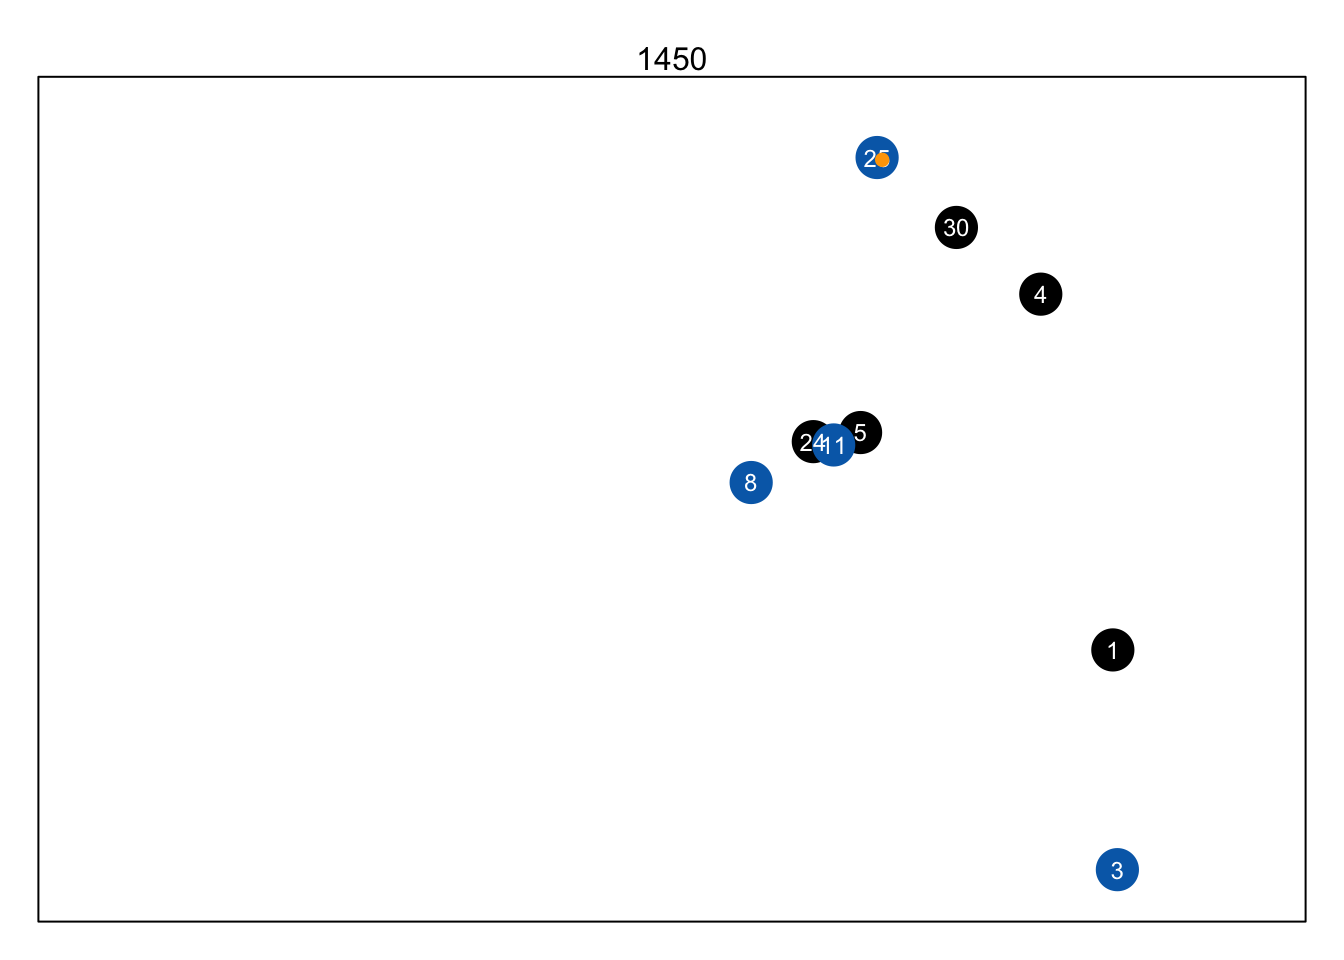
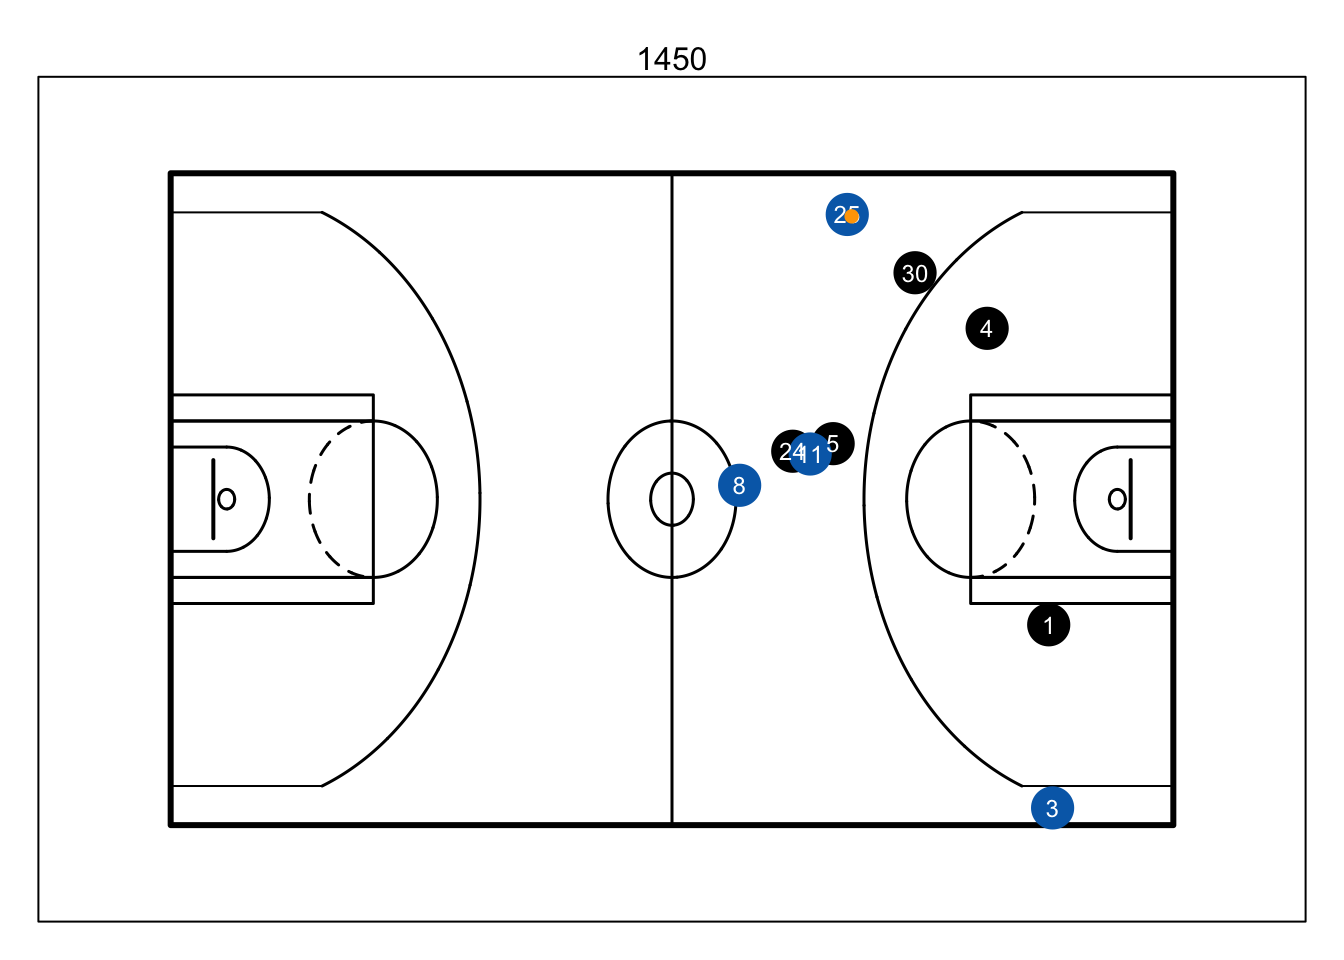
Actually fix image in lecture23

diff --git a/docs/lectures/lecture08.html b/docs/lectures/lecture08.html
@@ -566,7 +566,7 @@ window.Quarto = {
 <span id="cb2-4"><a href="#cb2-4" aria-hidden="true" tabindex="-1"></a>     <span class="at">pch =</span> <span class="dv">16</span>, <span class="at">cex =</span> <span class="fl">0.2</span>, </span>
 <span id="cb2-5"><a href="#cb2-5" aria-hidden="true" tabindex="-1"></a>     <span class="at">col =</span> <span class="fu">adjustcolor</span>(oi_colors[<span class="dv">1</span>], <span class="at">alpha.f =</span> <span class="fl">0.1</span>))</span></code></pre></div><button title="Copy to Clipboard" class="code-copy-button"><i class="bi"></i></button></div>
 <div class="cell-output-display">
-<div id="fig-hc-coordinates" class="quarto-float quarto-figure quarto-figure-center anchored" alt="Scatterplot of batted ball hit coordinates" data-fig-align="center">
+<div id="fig-hc-coordinates" class="quarto-float quarto-figure quarto-figure-center anchored" data-fig-align="center" alt="Scatterplot of batted ball hit coordinates">
 <figure class="quarto-float quarto-float-fig figure">
 <div aria-describedby="fig-hc-coordinates-caption-0ceaefa1-69ba-4598-a22c-09a6ac19f8ca">
 <a href="lecture08_files/figure-html/fig-hc-coordinates-1.png" class="lightbox" data-gallery="quarto-lightbox-gallery-1" title="Figure&nbsp;1: Locations where all batted balls are first fielded"><img src="lecture08_files/figure-html/fig-hc-coordinates-1.png" class="img-fluid quarto-figure quarto-figure-center figure-img" alt="Scatterplot of batted ball hit coordinates" width="576"></a>
@@ -651,7 +651,7 @@ x &amp;= 2.5 \times (\texttt{hit\_coord\_x} - 125.42) &amp; y &amp;= 2.5 \times 
 </dl>
 </div>
 <div class="cell-output-display">
-<div id="fig-new-coords" class="quarto-float quarto-figure quarto-figure-center anchored" alt="Scatterplot of batted ball locations with yellow foul lines and white basebaths overlaid" data-fig-align="center">
+<div id="fig-new-coords" class="quarto-float quarto-figure quarto-figure-center anchored" data-fig-align="center" alt="Scatterplot of batted ball locations with yellow foul lines and white basebaths overlaid">
 <figure class="quarto-float quarto-float-fig figure">
 <div aria-describedby="fig-new-coords-caption-0ceaefa1-69ba-4598-a22c-09a6ac19f8ca">
 <a href="lecture08_files/figure-html/fig-new-coords-1.png" class="lightbox" data-gallery="quarto-lightbox-gallery-3" title="Figure&nbsp;3: Locations where batted balls are first fielded in our transformed coordinate system"><img src="lecture08_files/figure-html/fig-new-coords-1.png" class="img-fluid quarto-figure quarto-figure-center figure-img" alt="Scatterplot of batted ball locations with yellow foul lines and white basebaths overlaid" width="576"></a>
@@ -811,7 +811,7 @@ FALSE  TRUE
 <span id="cb21-6"><a href="#cb21-6" aria-hidden="true" tabindex="-1"></a><span class="fu">points</span>(raw_grid<span class="sc">$</span>x, raw_grid<span class="sc">$</span>y, <span class="at">pch =</span> <span class="dv">16</span>, <span class="at">cex =</span> <span class="fl">0.2</span>, </span>
 <span id="cb21-7"><a href="#cb21-7" aria-hidden="true" tabindex="-1"></a>       <span class="at">col =</span> <span class="fu">adjustcolor</span>(oi_colors[<span class="dv">3</span>], <span class="at">alpha.f =</span> <span class="fl">0.3</span>))</span></code></pre></div><button title="Copy to Clipboard" class="code-copy-button"><i class="bi"></i></button></div>
 <div class="cell-output-display">
-<div id="fig-grid" class="quarto-float quarto-figure quarto-figure-center anchored" alt="Batted ball locations overlaid over a square grid of blue points" data-fig-align="center">
+<div id="fig-grid" class="quarto-float quarto-figure quarto-figure-center anchored" data-fig-align="center" alt="Batted ball locations overlaid over a square grid of blue points">
 <figure class="quarto-float quarto-float-fig figure">
 <div aria-describedby="fig-grid-caption-0ceaefa1-69ba-4598-a22c-09a6ac19f8ca">
 <a href="lecture08_files/figure-html/fig-grid-1.png" class="lightbox" data-gallery="quarto-lightbox-gallery-4" title="Figure&nbsp;4: The initial grid of points contains many locations at which we would not expect balls to be fielded."><img src="lecture08_files/figure-html/fig-grid-1.png" class="img-fluid quarto-figure quarto-figure-center figure-img" alt="Batted ball locations overlaid over a square grid of blue points" width="576"></a>
@@ -840,7 +840,7 @@ Figure&nbsp;4: The initial grid of points contains many locations at which we wo
 <span id="cb22-8"><a href="#cb22-8" aria-hidden="true" tabindex="-1"></a><span class="fu">points</span>(grid<span class="sc">$</span>x, grid<span class="sc">$</span>y, <span class="at">pch =</span> <span class="dv">16</span>, <span class="at">cex =</span> <span class="fl">0.2</span>, </span>
 <span id="cb22-9"><a href="#cb22-9" aria-hidden="true" tabindex="-1"></a>       <span class="at">col =</span> <span class="fu">adjustcolor</span>(oi_colors[<span class="dv">3</span>], <span class="at">alpha.f =</span> <span class="fl">0.3</span>))</span></code></pre></div><button title="Copy to Clipboard" class="code-copy-button"><i class="bi"></i></button></div>
 <div class="cell-output-display">
-<div id="fig-restrict-grid" class="quarto-float quarto-figure quarto-figure-center anchored" alt="Square grid of points restricted to the dimensions of a baseball diamond" data-fig-align="center">
+<div id="fig-restrict-grid" class="quarto-float quarto-figure quarto-figure-center anchored" data-fig-align="center" alt="Square grid of points restricted to the dimensions of a baseball diamond">
 <figure class="quarto-float quarto-float-fig figure">
 <div aria-describedby="fig-restrict-grid-caption-0ceaefa1-69ba-4598-a22c-09a6ac19f8ca">
 <a href="lecture08_files/figure-html/fig-restrict-grid-1.png" class="lightbox" data-gallery="quarto-lightbox-gallery-5" title="Figure&nbsp;5: A restricted grid of spatial locations."><img src="lecture08_files/figure-html/fig-restrict-grid-1.png" class="img-fluid quarto-figure quarto-figure-center figure-img" alt="Square grid of points restricted to the dimensions of a baseball diamond" width="576"></a>
@@ -969,7 +969,7 @@ Figure&nbsp;5: A restricted grid of spatial locations.
 </dl>
 </div>
 <div class="cell-output-display">
-<div id="fig-bin-probs" class="quarto-float quarto-figure quarto-figure-center anchored" alt="Heatmap of out probabilities" data-fig-align="center">
+<div id="fig-bin-probs" class="quarto-float quarto-figure quarto-figure-center anchored" data-fig-align="center" alt="Heatmap of out probabilities">
 <figure class="quarto-float quarto-float-fig figure">
 <div aria-describedby="fig-bin-probs-caption-0ceaefa1-69ba-4598-a22c-09a6ac19f8ca">
 <a href="lecture08_files/figure-html/fig-bin-probs-1.png" class="lightbox" data-gallery="quarto-lightbox-gallery-6" title="Figure&nbsp;6: Empirical out probabilities based on binning balls in play."><img src="lecture08_files/figure-html/fig-bin-probs-1.png" class="img-fluid quarto-figure quarto-figure-center figure-img" alt="Heatmap of out probabilities" width="576"></a>
@@ -1056,7 +1056,7 @@ Figure&nbsp;6: Empirical out probabilities based on binning balls in play.
 </dl>
 </div>
 <div class="cell-output-display">
-<div id="fig-logistic-fit" class="quarto-float quarto-figure quarto-figure-center anchored" alt="Heatmap of out probabilities" data-fig-align="center">
+<div id="fig-logistic-fit" class="quarto-float quarto-figure quarto-figure-center anchored" data-fig-align="center" alt="Heatmap of out probabilities">
 <figure class="quarto-float quarto-float-fig figure">
 <div aria-describedby="fig-logistic-fit-caption-0ceaefa1-69ba-4598-a22c-09a6ac19f8ca">
 <a href="lecture08_files/figure-html/fig-logistic-fit-1.png" class="lightbox" data-gallery="quarto-lightbox-gallery-7" title="Figure&nbsp;7: Logistic regression forecasts of out probabilities as a function of location."><img src="lecture08_files/figure-html/fig-logistic-fit-1.png" class="img-fluid quarto-figure quarto-figure-center figure-img" alt="Heatmap of out probabilities" width="576"></a>
@@ -1135,7 +1135,7 @@ Figure&nbsp;7: Logistic regression forecasts of out probabilities as a function 
 <span id="cb30-33"><a href="#cb30-33" aria-hidden="true" tabindex="-1"></a><span class="fu">points</span>(<span class="at">x =</span> <span class="sc">-</span><span class="dv">90</span><span class="sc">/</span><span class="fu">sqrt</span>(<span class="dv">2</span>), <span class="at">y =</span> <span class="dv">90</span><span class="sc">/</span><span class="fu">sqrt</span>(<span class="dv">2</span>), <span class="at">pch =</span> <span class="dv">16</span>,<span class="at">cex =</span> <span class="fl">0.8</span>, <span class="at">col =</span> <span class="st">"white"</span>)</span>
 <span id="cb30-34"><a href="#cb30-34" aria-hidden="true" tabindex="-1"></a><span class="fu">points</span>(<span class="at">x =</span> <span class="dv">0</span>, <span class="at">y =</span> <span class="dv">90</span><span class="sc">*</span><span class="fu">sqrt</span>(<span class="dv">2</span>), <span class="at">pch =</span> <span class="dv">16</span>, <span class="at">cex =</span> <span class="fl">0.8</span>, <span class="at">col =</span> <span class="st">"white"</span>)</span></code></pre></div><button title="Copy to Clipboard" class="code-copy-button"><i class="bi"></i></button></div>
 <div class="cell-output-display">
-<div id="fig-out-gam" class="quarto-float quarto-figure quarto-figure-center anchored" alt="Heatamp of out probabilities" data-fig-align="center">
+<div id="fig-out-gam" class="quarto-float quarto-figure quarto-figure-center anchored" data-fig-align="center" alt="Heatamp of out probabilities">
 <figure class="quarto-float quarto-float-fig figure">
 <div aria-describedby="fig-out-gam-caption-0ceaefa1-69ba-4598-a22c-09a6ac19f8ca">
 <a href="lecture08_files/figure-html/fig-out-gam-1.png" class="lightbox" data-gallery="quarto-lightbox-gallery-8" title="Figure&nbsp;8: Heatmap of out probabilities fitted with a generalized additive model"><img src="lecture08_files/figure-html/fig-out-gam-1.png" class="img-fluid quarto-figure quarto-figure-center figure-img" alt="Heatamp of out probabilities" width="576"></a>

diff --git a/docs/lectures/lecture05.html b/docs/lectures/lecture05.html
@@ -608,7 +608,7 @@ Y_{i} = \boldsymbol{\mathbf{z}}_{i}^{\top}\boldsymbol{\alpha} + \epsilon_{i}.
 <div class="code-copy-outer-scaffold"><div class="sourceCode cell-code" id="cb2"><pre class="sourceCode r code-with-copy"><code class="sourceCode r"><span id="cb2-1"><a href="#cb2-1" aria-hidden="true" tabindex="-1"></a><span class="fu">par</span>(<span class="at">mar =</span> <span class="fu">c</span>(<span class="dv">3</span>,<span class="dv">3</span>,<span class="dv">2</span>,<span class="dv">1</span>), <span class="at">mgp =</span> <span class="fu">c</span>(<span class="fl">1.8</span>, <span class="fl">0.5</span>, <span class="dv">0</span>))</span>
 <span id="cb2-2"><a href="#cb2-2" aria-hidden="true" tabindex="-1"></a><span class="fu">plot</span>(cv_fit)</span></code></pre></div><button title="Copy to Clipboard" class="code-copy-button"><i class="bi"></i></button></div>
 <div class="cell-output-display">
-<div id="fig-plot-cv" class="quarto-float quarto-figure quarto-figure-center anchored" alt="Plot of out-of-sample error plotted against regularizaiton parameter" data-fig-align="center">
+<div id="fig-plot-cv" class="quarto-float quarto-figure quarto-figure-center anchored" data-fig-align="center" alt="Plot of out-of-sample error plotted against regularizaiton parameter">
 <figure class="quarto-float quarto-float-fig figure">
 <div aria-describedby="fig-plot-cv-caption-0ceaefa1-69ba-4598-a22c-09a6ac19f8ca">
 <a href="lecture05_files/figure-html/fig-plot-cv-1.png" class="lightbox" data-gallery="quarto-lightbox-gallery-1" title="Figure&nbsp;1: Out-of-sample error plotted against regularization parameter (lambda)"><img src="lecture05_files/figure-html/fig-plot-cv-1.png" class="img-fluid quarto-figure quarto-figure-center figure-img" alt="Plot of out-of-sample error plotted against regularizaiton parameter" width="576"></a>
@@ -803,7 +803,7 @@ Important
 </dl>
 </div>
 <div class="cell-output-display">
-<div id="fig-bootstrap-diff" class="quarto-float quarto-figure quarto-figure-center anchored" alt="Histogram of bootstrap samples of difference between Doncic &amp; Davis" data-fig-align="center">
+<div id="fig-bootstrap-diff" class="quarto-float quarto-figure quarto-figure-center anchored" data-fig-align="center" alt="Histogram of bootstrap samples of difference between Doncic &amp; Davis">
 <figure class="quarto-float quarto-float-fig figure">
 <div aria-describedby="fig-bootstrap-diff-caption-0ceaefa1-69ba-4598-a22c-09a6ac19f8ca">
 <a href="lecture05_files/figure-html/fig-bootstrap-diff-1.png" class="lightbox" data-gallery="quarto-lightbox-gallery-2" title="Figure&nbsp;2: Bootstrap distribution of difference between Doncic &amp; Davis"><img src="lecture05_files/figure-html/fig-bootstrap-diff-1.png" class="img-fluid quarto-figure quarto-figure-center figure-img" alt="Histogram of bootstrap samples of difference between Doncic &amp; Davis" width="576"></a>

diff --git a/docs/lectures/lecture23.html b/docs/lectures/lecture23.html
@@ -520,7 +520,7 @@ window.Quarto = {
 <section id="motivation-play-animation" class="level2">
 <h2 class="anchored" data-anchor-id="motivation-play-animation">Motivation: Play Animation</h2>
 <p>In Game 5 of the 2026 NBA Finals, the New York Knicks scored their first points on a <a href="https://uwmadison.box.com/s/2p4fohd0030yc7id7qvd8wurk0473up2">Jalen Brunson 3 point shot</a>. <a href="#fig-brunson3pt" class="quarto-xref">Figure&nbsp;1</a> shows an animation of the same play in which players are represented as dots (colored according to their team) move aross the plane (representing the court)</p>
-<div id="fig-brunson3pt" class="quarto-float quarto-figure quarto-figure-center anchored" alt="Animation in which dots (representing players and the ball) move about the plane (representing the basketball court)" data-fig-align="center">
+<div id="fig-brunson3pt" class="quarto-float quarto-figure quarto-figure-center anchored" data-fig-align="center" alt="Animation in which dots (representing players and the ball) move about the plane (representing the basketball court)">
 <figure class="quarto-float quarto-float-fig figure">
 <div aria-describedby="fig-brunson3pt-caption-0ceaefa1-69ba-4598-a22c-09a6ac19f8ca">
 <a href="figures/lecture23/brunson3pt.gif" class="lightbox" data-gallery="quarto-lightbox-gallery-1" title="Figure&nbsp;1: Animation of Knicks possession leading up to a Brunson 3 point shot"><img src="figures/lecture23/brunson3pt.gif" class="img-fluid quarto-figure quarto-figure-center figure-img" style="width:60.0%" alt="Animation in which dots (representing players and the ball) move about the plane (representing the basketball court)"></a>

diff --git a/docs/lectures/lecture03.html b/docs/lectures/lecture03.html
@@ -1557,7 +1557,7 @@ Figure&nbsp;4: Complex trees can be represented as sums of simpler trees
 <span id="cb57-13"><a href="#cb57-13" aria-hidden="true" tabindex="-1"></a>     <span class="at">xlim =</span> <span class="fu">c</span>(<span class="dv">0</span>, <span class="dv">1</span>), <span class="at">ylim =</span> <span class="fu">c</span>(<span class="dv">0</span>,<span class="dv">1</span>),</span>
 <span id="cb57-14"><a href="#cb57-14" aria-hidden="true" tabindex="-1"></a>     <span class="at">xlab =</span> <span class="st">"StatsBomb's XG"</span>, <span class="at">ylab =</span> <span class="st">"Our XG"</span>, <span class="at">main =</span> <span class="st">'Comparison of XG estimates'</span>)</span></code></pre></div><button title="Copy to Clipboard" class="code-copy-button"><i class="bi"></i></button></div>
 <div class="cell-output-display">
-<div id="fig-compare-statsbomb" class="quarto-float quarto-figure quarto-figure-center anchored" data-fig-align="center" width="384">
+<div id="fig-compare-statsbomb" class="quarto-float quarto-figure quarto-figure-center anchored" width="384" data-fig-align="center">
 <figure class="quarto-float quarto-float-fig figure">
 <div aria-describedby="fig-compare-statsbomb-caption-0ceaefa1-69ba-4598-a22c-09a6ac19f8ca">
 <a href="lecture03_files/figure-html/fig-compare-statsbomb-1.png" class="lightbox" data-gallery="quarto-lightbox-gallery-6" title="Figure&nbsp;5: "><img src="lecture03_files/figure-html/fig-compare-statsbomb-1.png" id="fig-compare-statsbomb" class="img-fluid quarto-figure quarto-figure-center anchored figure-img" width="384"></a>
